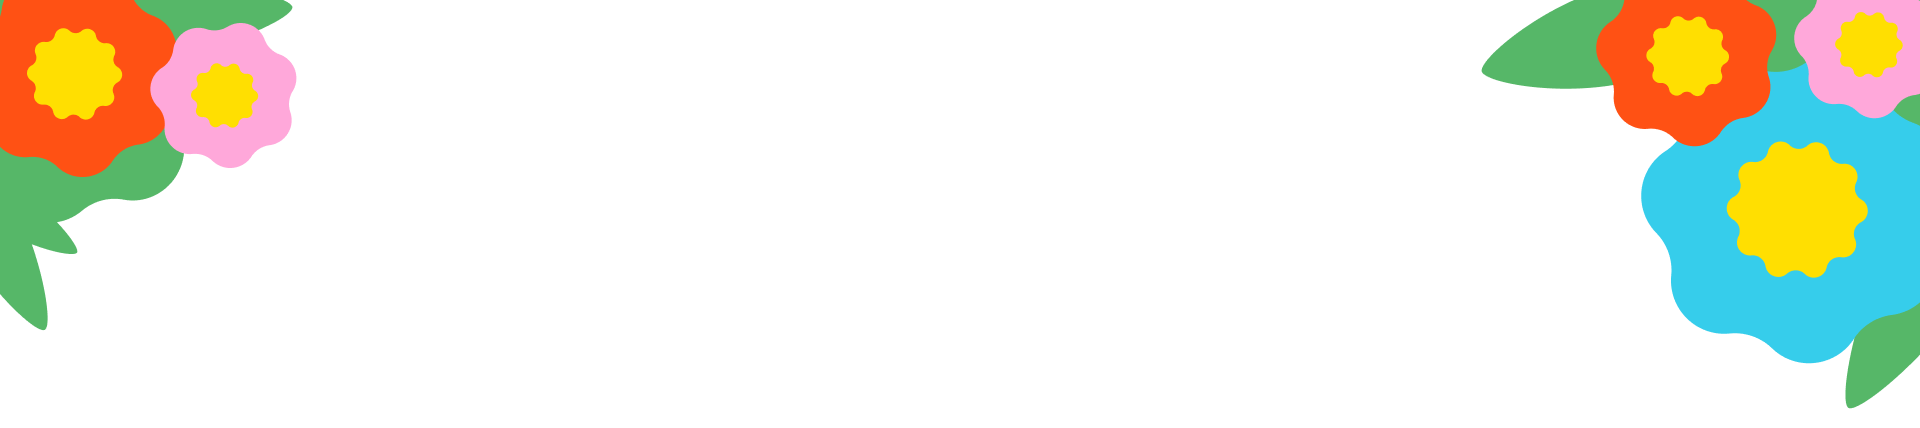
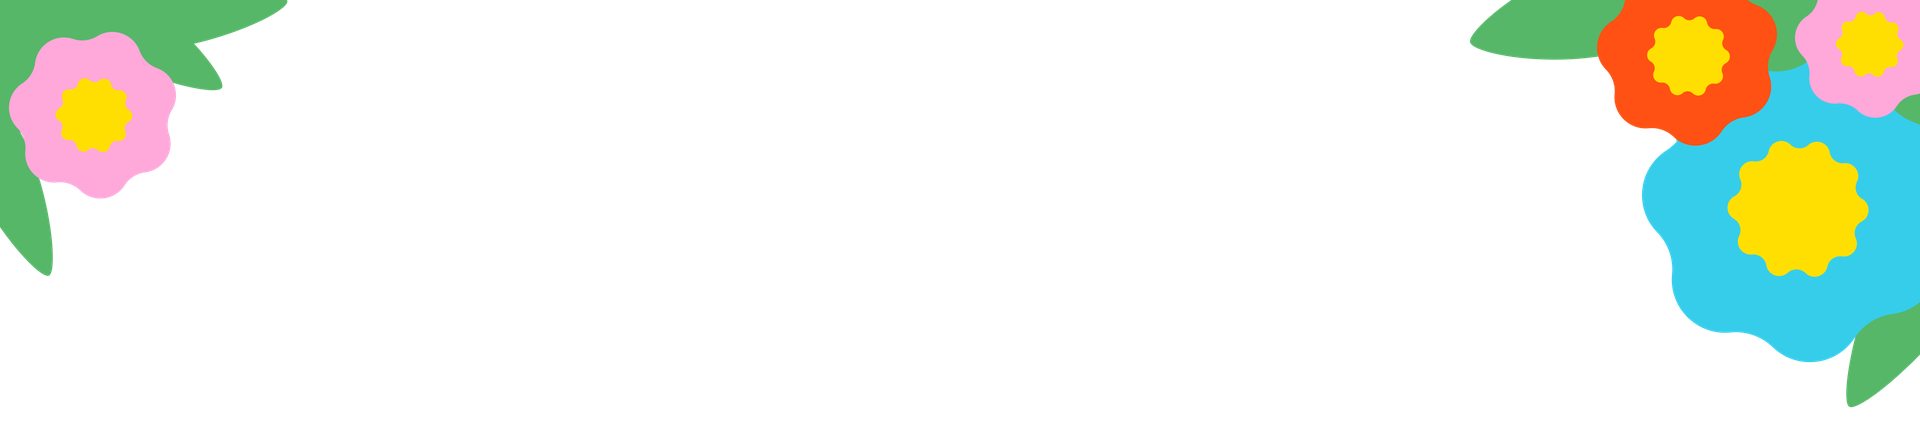
оновлено лівий декор під хедером (новий фрейм з Figma)
Пересоброно смугу decor-under-header.png з оновленого фрейму «під хедер»:
лівий кластер змінено, правий збережено. Бамп кеш-версії до 20260528d.

diff --git a/onboarding.html b/onboarding.html
@@ -36,7 +36,7 @@
 <main>
   <section class="section" style="position: relative; overflow: hidden">
     <span class="blob blob--warm" style="top: -10%; right: -10%" aria-hidden="true"></span>
-    <img class="under-header" src="assets/decor-under-header.png?v=20260528a" alt="" aria-hidden="true">
+    <img class="under-header" src="assets/decor-under-header.png?v=20260528d" alt="" aria-hidden="true">
     <div class="container container--narrow" style="position: relative">
       <div class="card card--organic reveal" style="padding: clamp(2rem, 5vw, 4rem) clamp(1.5rem, 4vw, 3rem); max-width: 520px; margin: 0 auto; box-shadow: var(--shadow-lg)">
         <div class="icon-circle" style="margin-inline: auto; margin-bottom: var(--space-4); width: 80px; height: 80px; background: var(--gradient-warm)"><svg class="icon icon-xl" viewBox="0 0 24 24" fill="none" stroke="currentColor" stroke-width="1.6" stroke-linecap="round" stroke-linejoin="round"><path d="M14 9a2 2 0 0 1-2 2H6l-4 4V4a2 2 0 0 1 2-2h8a2 2 0 0 1 2 2z"/><path d="M18 9h2a2 2 0 0 1 2 2v11l-4-4h-6a2 2 0 0 1-2-2v-1"/></svg></div>

diff --git a/404.html b/404.html
@@ -37,7 +37,7 @@
   <section class="section" style="position: relative; overflow: hidden">
     <span class="blob" style="top: -10%; left: 50%; transform: translateX(-50%)" aria-hidden="true"></span>
     <span class="blob blob--accent blob--sm" style="bottom: 10%; right: 10%" aria-hidden="true"></span>
-    <img class="under-header" src="assets/decor-under-header.png?v=20260528a" alt="" aria-hidden="true">
+    <img class="under-header" src="assets/decor-under-header.png?v=20260528d" alt="" aria-hidden="true">
     <div class="container container--narrow error-404" style="position: relative">
       <div class="error-404__num" aria-hidden="true">404</div>
       <h1>Такої сторінки нема</h1>

diff --git a/login.html b/login.html
@@ -37,7 +37,7 @@
   <section class="section" style="position: relative; overflow: hidden">
     <span class="blob" style="top: -20%; left: -10%" aria-hidden="true"></span>
     <span class="blob blob--accent blob--sm" style="bottom: -10%; right: -10%" aria-hidden="true"></span>
-    <img class="under-header" src="assets/decor-under-header.png?v=20260528a" alt="" aria-hidden="true">
+    <img class="under-header" src="assets/decor-under-header.png?v=20260528d" alt="" aria-hidden="true">
     <div class="container container--narrow" style="position: relative">
 
       <div class="card card--organic reveal" style="padding: clamp(2rem, 4vw, 3rem); max-width: 460px; margin: 0 auto; box-shadow: var(--shadow-lg)">

diff --git a/confirm.html b/confirm.html
@@ -37,7 +37,7 @@
   <section class="section">
     <span class="blob" style="top: 10%; left: -10%" aria-hidden="true"></span>
     <span class="blob blob--accent blob--sm" style="bottom: 10%; right: -6%" aria-hidden="true"></span>
-    <img class="under-header" src="assets/decor-under-header.png?v=20260528a" alt="" aria-hidden="true">
+    <img class="under-header" src="assets/decor-under-header.png?v=20260528d" alt="" aria-hidden="true">
     <div class="container container--narrow" style="position: relative">
 
       <div class="card card--organic center reveal" style="padding: clamp(2rem, 6vw, 4rem) clamp(1.5rem, 4vw, 3rem); box-shadow: var(--shadow-lg)">

diff --git a/community.html b/community.html
@@ -38,7 +38,7 @@
     <div class="hero__bg" aria-hidden="true"></div>
     <span class="blob" style="top: 20%; left: -10%" aria-hidden="true"></span>
     <span class="blob blob--warm blob--sm" style="bottom: 10%; right: -6%" aria-hidden="true"></span>
-    <img class="under-header" src="assets/decor-under-header.png?v=20260528a" alt="" aria-hidden="true">
+    <img class="under-header" src="assets/decor-under-header.png?v=20260528d" alt="" aria-hidden="true">
     <div class="container hero__inner">
       <span class="eyebrow">Про нас</span>
       <h1 style="max-width: 18ch">Люди, які прибирають Львів</h1>

diff --git a/event.html b/event.html
@@ -40,7 +40,7 @@
   <!-- EVENT HERO -->
   <section class="hero">
     <div class="hero__bg" aria-hidden="true"></div>
-    <img class="under-header" src="assets/decor-under-header.png?v=20260528a" alt="" aria-hidden="true">
+    <img class="under-header" src="assets/decor-under-header.png?v=20260528d" alt="" aria-hidden="true">
     <div class="container hero__inner">
       <a href="events.html" class="link-btn" style="margin-bottom: var(--space-4)">
         <svg class="icon icon-sm" viewBox="0 0 24 24" fill="none" stroke="currentColor" stroke-width="2" stroke-linecap="round"><polyline points="15 18 9 12 15 6"/></svg>

diff --git a/support.html b/support.html
@@ -37,7 +37,7 @@
   <section class="hero hero--lg">
     <div class="hero__bg" aria-hidden="true"></div>
     <span class="blob blob--accent" style="top: 10%; right: -10%" aria-hidden="true"></span>
-    <img class="under-header" src="assets/decor-under-header.png?v=20260528a" alt="" aria-hidden="true">
+    <img class="under-header" src="assets/decor-under-header.png?v=20260528d" alt="" aria-hidden="true">
     <div class="container hero__inner">
       <span class="eyebrow">Підтримати</span>
       <h1 style="max-width: 20ch">Чистий Львів — спільна справа</h1>

diff --git a/results.html b/results.html
@@ -38,7 +38,7 @@
   <section class="hero hero--lg">
     <div class="hero__bg" aria-hidden="true"></div>
     <span class="blob" style="top: -10%; right: -10%" aria-hidden="true"></span>
-    <img class="under-header" src="assets/decor-under-header.png?v=20260528a" alt="" aria-hidden="true">
+    <img class="under-header" src="assets/decor-under-header.png?v=20260528d" alt="" aria-hidden="true">
     <div class="container hero__inner">
       <span class="eyebrow">Що ми зробили</span>
       <h1 style="max-width: 20ch">Що ми змогли разом за цей рік?</h1>

diff --git a/events.html b/events.html
@@ -45,7 +45,7 @@
   <section class="hero hero--find">
     <div class="hero__bg" aria-hidden="true"></div>
     <img class="find-ant" src="assets/ant-map.svg?v=20260527j" alt="" aria-hidden="true">
-    <img class="under-header" src="assets/decor-under-header.png?v=20260528a" alt="" aria-hidden="true">
+    <img class="under-header" src="assets/decor-under-header.png?v=20260528d" alt="" aria-hidden="true">
     <div class="container hero__inner">
       <span class="eyebrow">Львів · вихідні</span>
       <h1 style="max-width: 24ch">Знайди свою толоку</h1>

diff --git a/report.html b/report.html
@@ -36,7 +36,7 @@
 <main>
   <section class="hero">
     <div class="hero__bg" aria-hidden="true"></div>
-    <img class="under-header" src="assets/decor-under-header.png?v=20260528a" alt="" aria-hidden="true">
+    <img class="under-header" src="assets/decor-under-header.png?v=20260528d" alt="" aria-hidden="true">
     <div class="container hero__inner">
       <span class="eyebrow">Ініціатива</span>
       <h1 style="max-width: 20ch">Знаєш, де брудно? Покажи нам</h1>

diff --git a/profile.html b/profile.html
@@ -35,7 +35,7 @@
 
 <main>
   <section class="section--tight" style="padding-top: var(--space-8)">
-    <img class="under-header" src="assets/decor-under-header.png?v=20260528a" alt="" aria-hidden="true">
+    <img class="under-header" src="assets/decor-under-header.png?v=20260528d" alt="" aria-hidden="true">
     <div class="container">
 
       <article class="share-card" id="profile-share-card" aria-label="Картка профілю для поширення">

diff --git a/faq.html b/faq.html
@@ -36,7 +36,7 @@
 <main>
   <section class="hero">
     <div class="hero__bg" aria-hidden="true"></div>
-    <img class="under-header" src="assets/decor-under-header.png?v=20260528a" alt="" aria-hidden="true">
+    <img class="under-header" src="assets/decor-under-header.png?v=20260528d" alt="" aria-hidden="true">
     <div class="container hero__inner">
       <span class="eyebrow">Відповіді</span>
       <h1>Часті питання</h1>
